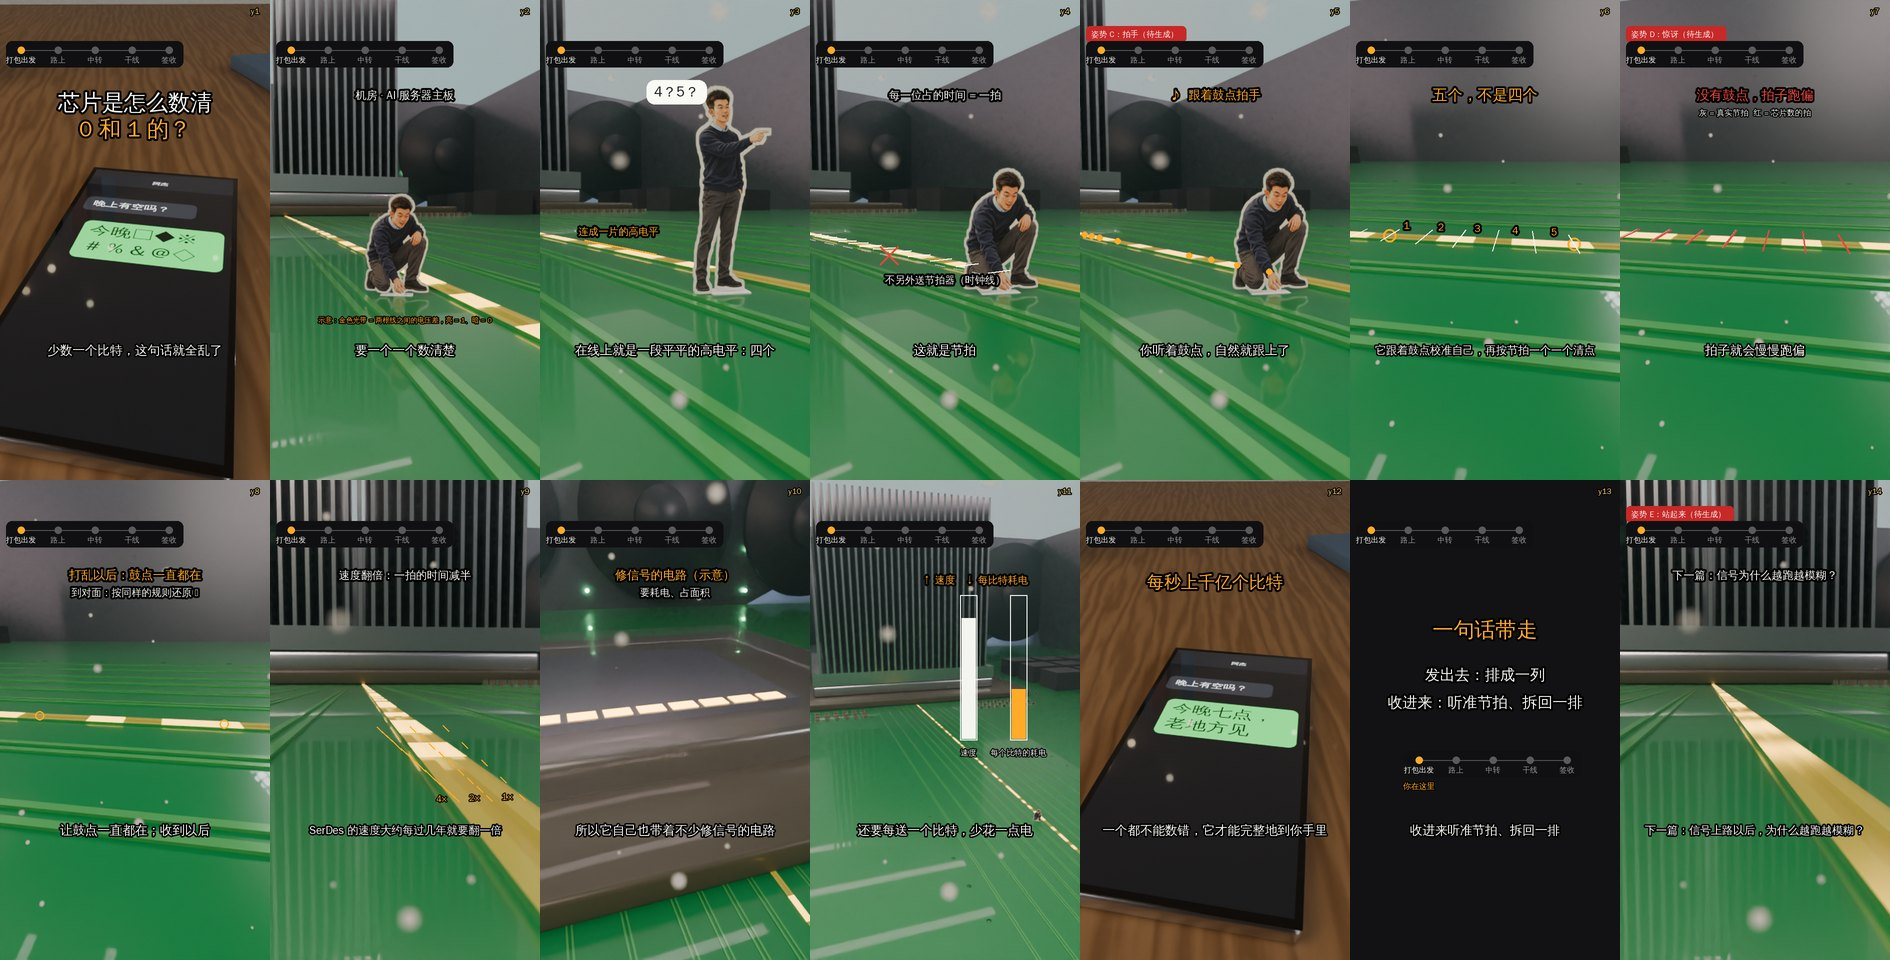
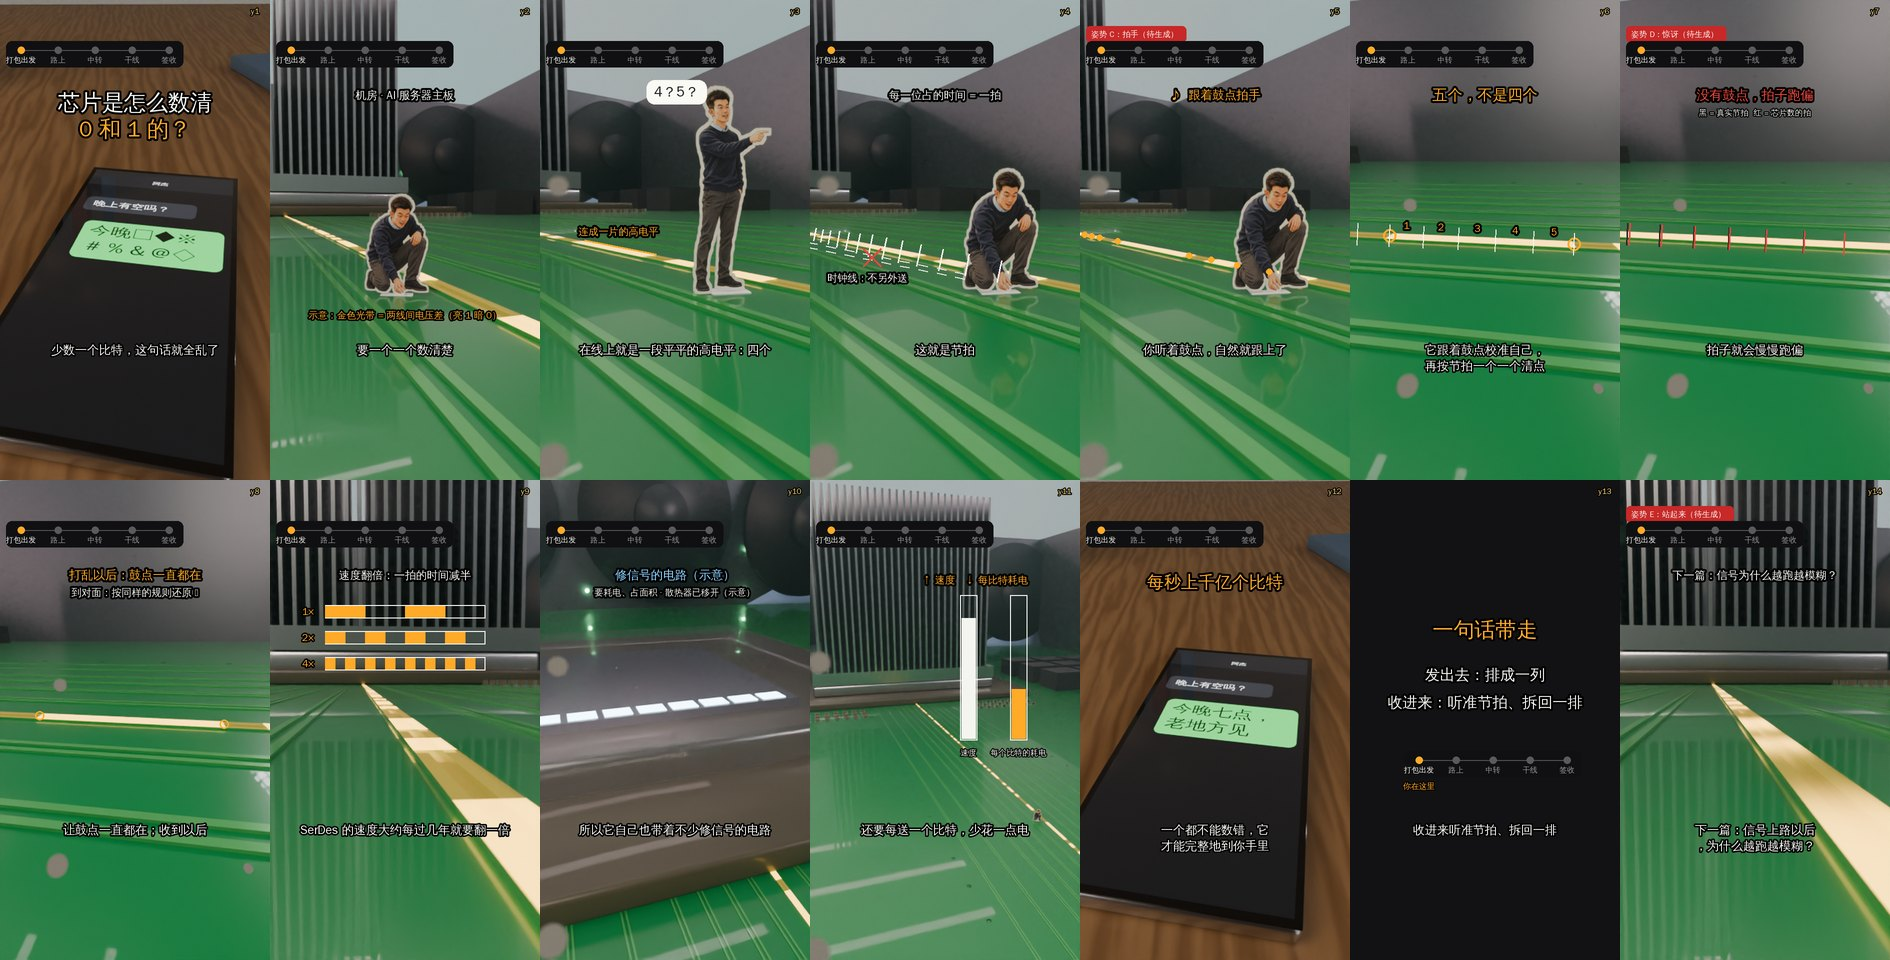
02 下集草稿：按审核复核改（光带贴图改世界坐标、和叠加层的位边界对齐；灰尘每帧 3 颗、不进反射；y4 时钟线；y10 第一段只糊光带；y7 深色刻度；y9 三条格子带；字幕折行；刻度垂直于光带；转场表和姿势 E 统一）
Claude-Session: https://claude.ai/code/session_017cWy2AeTL5LJcSvHYkiP7A

diff --git a/episodes/guanghulian/02-serdes/下集_新风格/草稿/beats.py b/episodes/guanghulian/02-serdes/下集_新风格/草稿/beats.py
@@ -37,7 +37,9 @@ def ticks(d, band, col=WHITE, every=1, scale=1.0, shift=None, width=3):
         if i % every: continue
         q = pts[min(i + 1, len(pts) - 1)] if i + 1 < len(pts) else pts[max(i - 1, 0)]
         sp = ((q['x'] - p['x']) ** 2 + (q['yy'] - p['yy']) ** 2) ** 0.5   # 相邻两位在画面上的距离：越远越短（跟着透视）
-        nx, ny = norm(p); L = max(3, min(22, sp * 0.9)) * scale
+        tx, ty = (q['x'] - p['x']), (q['yy'] - p['yy']); tl = max(1e-6, (tx * tx + ty * ty) ** 0.5)
+        nx, ny = -ty / tl, tx / tl                                       # 垂直于光带在画面上的走向（审核：刻度要垂直于光带）
+        L = max(3, min(22, sp * 0.9)) * scale
         x, y = p['x'], p['yy']
         if shift: x, y = x + shift(i)[0], y + shift(i)[1]
         d.line([(x - nx * L, y - ny * L), (x + nx * L, y + ny * L)], fill=col, width=width)
@@ -51,21 +53,23 @@ def runs(band, n=5):
         if pts[i]['bit'] == 1 and j - i + 1 == n: out.append(pts[i:j + 2] if j + 1 < len(pts) else pts[i:j + 1])
         i = j + 1
     return out
-def subtitle_frames(k, im, draw):
-    """一句拆成原稿的字幕分段，每段一帧（一次一行，y ≈ 1400/1920）"""
+def subtitle_frames(k, im, draw, bgs=None):
+    """一句拆成原稿的字幕分段，每段一帧（一次一段，y ≈ 1400/1920；放不下就折两行，不越过 0.84W）；bgs：每段单独的背景"""
     outs = []
-    for seg in SC[k]['sub']:
-        fr = im.copy(); d = ImageDraw.Draw(fr); draw(d); route(d)
-        text(d, (W // 2, int(H * 0.73)), seg, 25 if len(seg) <= 18 else 22, stroke=3); text(d, (W - 30, 22), k, 16, fill=(255, 220, 120), stroke=2)
-        outs.append((seg, fr))
+    for n, seg in enumerate(SC[k]['sub']):
+        fr = (bgs[n] if bgs else im).copy(); d = ImageDraw.Draw(fr); draw(d) if not callable(getattr(draw, 'per', None)) else draw.per(d, n)
+        if k != 'y13': route(d)
+        lines = [seg] if d.textlength(seg, font=f(24)) <= W * 0.78 else [seg[:(len(seg) + 1) // 2], seg[(len(seg) + 1) // 2:]]
+        for i, ln in enumerate(lines): text(d, (W // 2, int(H * 0.73) + i * 32), ln, 24, stroke=3)
+        text(d, (W - 30, 22), k, 16, fill=(255, 220, 120), stroke=2); outs.append((seg, fr))
     return outs
 BEATS = []
-def beat(k, im, draw): BEATS.append((k, subtitle_frames(k, im, draw)))
+def beat(k, im, draw, bgs=None): BEATS.append((k, subtitle_frames(k, im, draw, bgs)))
 
 im, _ = bg('A_f0040')
 beat('y1', im, lambda d: (text(d, (W // 2, 205), '芯片是怎么数清', 44), text(d, (W // 2, 258), '0 和 1 的？', 44, fill=GOLD)))
 im, _ = bg('B_f0110')
-beat('y2', im, lambda d: (text(d, (W // 2, 190), '机房 · AI 服务器主板', 22), text(d, (W // 2, 640), '示意：金色光带 = 两根线之间的电压差，亮 = 1、暗 = 0', 14, fill=GOLD, stroke=2)))
+beat('y2', im, lambda d: (text(d, (W // 2, 190), '机房 · AI 服务器主板', 22), text(d, (W // 2, 630), '示意：金色光带 = 两线间电压差（亮 1 暗 0）', 19, fill=GOLD, stroke=3)))
 im, band3 = bg('B_side_A_normal')
 def y3(d):
     hx, hy = band3['host_head']; hx *= W / band3['W']; hy *= H / band3['H']
@@ -79,14 +83,14 @@ im, band4 = bg('B_side_B_normal')
 def y4(d):
     ticks(d, band4, col=WHITE); pts = [p for p in band4['pts'] if on_screen(p)]
     if pts:                                          # 「时钟线」：走线旁边虚线画一对，被划掉
-        a, b = pts[0], pts[-1]; nx, ny = norm(a); o = 36
+        a, b = pts[0], pts[-1]; nx, ny = norm(a); o = 70
         for t in range(0, 20, 2):
             x0 = a['x'] + (b['x'] - a['x']) * t / 20 + nx * o; y0 = a['yy'] + (b['yy'] - a['yy']) * t / 20 + ny * o
             x1 = a['x'] + (b['x'] - a['x']) * (t + 1) / 20 + nx * o; y1 = a['yy'] + (b['yy'] - a['yy']) * (t + 1) / 20 + ny * o
-            d.line([(x0, y0), (x1, y1)], fill=GREY, width=3)
+            for dd in (-5, 5): d.line([(x0, y0 + dd), (x1, y1 + dd)], fill=(230, 230, 230), width=3)
         mx_, my_ = (a['x'] + b['x']) / 2 + nx * o, (a['yy'] + b['yy']) / 2 + ny * o
         d.line([(mx_ - 18, my_ - 18), (mx_ + 18, my_ + 18)], fill=RED, width=5); d.line([(mx_ - 18, my_ + 18), (mx_ + 18, my_ - 18)], fill=RED, width=5)
-        text(d, (W // 2, 560), '不另外送节拍器（时钟线）', 20)
+        text(d, (mx_ - 10, my_ + 40), '时钟线：不另外送', 20)
     text(d, (W // 2, 190), '每一位占的时间 = 一拍', 22)
 beat('y4', im, y4)
 im, band5 = bg('B_side_B_normal')
@@ -107,9 +111,9 @@ beat('y6', im, y6)
 im, band7 = bg('B_count_B_long')
 def y7(d):
     tag(d, '姿势 D：惊讶（待生成）')
-    ticks(d, band7, col=GREY, width=2)                                       # 真实的节拍
+    ticks(d, band7, col=(40, 40, 40), width=3)                                # 真实的节拍（深色）
     ticks(d, band7, col=RED, width=3, shift=lambda i: (0.35 * i * i ** 0.5, 0.0))     # 没有鼓点校准：拍子越走越偏
-    text(d, (W // 2, 190), '没有鼓点，拍子跑偏', 26, fill=RED); text(d, (W // 2, 225), '灰 = 真实节拍  红 = 芯片数的拍', 16, stroke=2)
+    text(d, (W // 2, 190), '没有鼓点，拍子跑偏', 26, fill=RED); text(d, (W // 2, 225), '黑 = 真实节拍  红 = 芯片数的拍', 16, stroke=2)
 beat('y7', im, y7)
 im, band8 = bg('B_count_B_normal')
 def y8(d):
@@ -119,20 +123,20 @@ beat('y8', im, y8)
 im, band9 = bg('B_close_B_normal')
 def y9(d):
     pts = [p for p in band9['pts'] if on_screen(p)]
-    if len(pts) > 6:                                  # 同一段走线上，每一代一拍的长度减半（1 : 2 : 4）
-        a, b = pts[0], pts[4]
-        for row, (lab, sub) in enumerate((('1×', 1), ('2×', 2), ('4×', 4))):
-            o = -30 + row * 30; nx, ny = norm(a)
-            for t in range(4 * sub + 1):
-                x = a['x'] + (b['x'] - a['x']) * t / (4 * sub) + nx * o * 2.2; y = a['yy'] + (b['yy'] - a['yy']) * t / (4 * sub) + ny * o * 2.2
-                d.line([(x - 6, y - 6), (x + 6, y + 6)], fill=GOLD, width=2)
-            text(d, (a['x'] + nx * o * 2.2 - 30, a['yy'] + ny * o * 2.2), lab, 18, fill=GOLD, stroke=2)
+    for row, (lab, n) in enumerate((('1×', 4), ('2×', 8), ('4×', 16))):   # 同样长的一段线上，一拍的格子依次减半（1 : 2 : 4）
+        y0 = 250 + row * 52; x0, x1 = 110, 430
+        d.rectangle([x0, y0, x1, y0 + 26], outline=WHITE, width=2)
+        for t in range(n):
+            if t % 2 == 0: d.rectangle([x0 + (x1 - x0) * t / n, y0 + 2, x0 + (x1 - x0) * (t + 1) / n, y0 + 24], fill=GOLD)
+        text(d, (x0 - 34, y0 + 13), lab, 20, fill=GOLD, stroke=3)
     text(d, (W // 2, 190), '速度翻倍：一拍的时间减半', 22)
 beat('y9', im, y9)
-im, _ = bg('B_rx_B_normal_xray')
-def y10(d):
-    text(d, (W // 2, 190), '修信号的电路（示意）', 24, fill=GOLD); text(d, (W // 2, 225), '要耗电、占面积', 20)
-beat('y10', im, y10)
+im, _ = bg('B_rx_B_normal_xray'); imb, _ = bg('B_close_B_blur')
+class Y10:
+    def per(self, d, n):
+        if n == 0: text(d, (W // 2, 190), '越快，越糊', 28, fill=GOLD)
+        else: text(d, (W // 2, 190), '修信号的电路（示意）', 24, fill=(140, 210, 255)); text(d, (W // 2, 225), '要耗电、占面积 · 散热器已移开（示意）', 18)
+beat('y10', im, Y10(), bgs=[imb] + [im] * (len(SC['y10']['sub']) - 1))
 im, _ = bg('B_wide_B_normal')
 def y11(d):
     for x0, lab, lvl, col in ((300, '速度', 0.85, WHITE), (400, '每个比特的耗电', 0.35, GOLD)):

diff --git a/episodes/guanghulian/02-serdes/下集_新风格/blender/shot_open.py b/episodes/guanghulian/02-serdes/下集_新风格/blender/shot_open.py
@@ -78,7 +78,7 @@ def mat_signal(tex):
     for n in list(N): N.remove(n)
     o = N.new('ShaderNodeOutputMaterial'); e = N.new('ShaderNodeEmission'); e.inputs['Color'].default_value = (*GOLD, 1)
     tr = N.new('ShaderNodeBsdfTransparent'); mx = N.new('ShaderNodeMixShader')
-    tc = N.new('ShaderNodeTexCoord'); sp = N.new('ShaderNodeSeparateXYZ'); L.new(tc.outputs['Object'], sp.inputs[0])
+    geo = N.new('ShaderNodeNewGeometry'); sp = N.new('ShaderNodeSeparateXYZ'); L.new(geo.outputs['Position'], sp.inputs[0])   # 世界坐标（审核：和导出的位边界对齐）
     off = N.new('ShaderNodeValue'); off.name = 'offset'
     u = N.new('ShaderNodeMath'); u.operation = 'MULTIPLY_ADD'; u.inputs[1].default_value = 1 / (NB * BIT); L.new(sp.outputs['Y'], u.inputs[0]); L.new(off.outputs[0], u.inputs[2])
     cm = N.new('ShaderNodeCombineXYZ'); L.new(u.outputs[0], cm.inputs['X']); cm.inputs['Y'].default_value = 0.5
@@ -137,16 +137,18 @@ def standee(k, height, loc, yaw):
 def bokeh_lights(n, center, spread, size, cols, strength=(4, 12)):
     for i in range(n):
         c = random.choice(cols); m, _ = emit(f'bk{i}', c, random.uniform(*strength))
-        sphere(f'bk{i}', size * random.uniform(0.6, 1.4), m, (center[0] + random.uniform(-spread[0], spread[0]), center[1] + random.uniform(-spread[1], spread[1]), center[2] + random.uniform(-spread[2], spread[2])))
+        o_ = sphere(f'bk{i}', size * random.uniform(0.6, 1.4), m, (center[0] + random.uniform(-spread[0], spread[0]), center[1] + random.uniform(-spread[1], spread[1]), center[2] + random.uniform(-spread[2], spread[2])))
+        o_.visible_glossy = False          # 背景灯只当虚化背景，不在手机玻璃上反光（审核：白点压字）
 def key(o, path, fr, val):
     setattr(o, path, val); o.keyframe_insert(path, frame=fr)
 def dust_near_camera(n, dmin, dmax, size):
     """前景灰尘：离镜头很近、虚成光斑，慢慢漂（审核：前景灰尘是必要的；数量少、很虚）"""
-    dm, _ = emit('dust', (1.0, 0.9, 0.75), 0.3)
+    dm, _ = emit('dust', (1.0, 0.9, 0.75), 0.12)  # 灰尘不进反射
+    _dust_objs = []
     cam_mat = cam.matrix_world.copy()
     for i in range(n):
-        d = random.uniform(dmin, dmax); x = random.uniform(-0.55, 0.55) * d; y = random.uniform(-0.9, 0.9) * d
-        p = cam_mat @ Vector((x, y, -d)); s = sphere(f'dust{i}', size * random.uniform(0.5, 1.3), dm, p)
+        d = random.uniform(dmin, dmax); x = random.choice([-1, 1]) * random.uniform(0.30, 0.5) * d; y = random.uniform(-0.85, 0.85) * d
+        p = cam_mat @ Vector((x, y, -d)); s = sphere(f'dust{i}', size * random.uniform(0.5, 1.3), dm, p); s.visible_glossy = False
         drift = Vector((random.uniform(-1, 1), random.uniform(-1, 1), random.uniform(-0.5, 1))) * d * 0.04
         key(s, 'location', 1, p); key(s, 'location', NF, p + drift); lin(s)
 
@@ -210,7 +212,7 @@ else:
     box('lid', 46, 46, 2.6, lid_m, (0, 92, 2.9), bev=0.6)
     if XR:      # y10：顶盖半透明，露出裸片和靠走线那一边的收发电路（示意）
         box('die', 26, 26, 0.8, mat('die', (0.12, 0.13, 0.16), 0.3, 0.3), (0, 92, 2.0))
-        sd_m, _ = emit('serdes_blocks', GOLD, 4.0)
+        sd_m, _ = emit('serdes_blocks', (0.55, 0.85, 1.0), 4.0)
         boxes('serdes', [(-10.5 + k * 3.0, 80.2, 2.45, 2.4, 1.6, 0.06) for k in range(8)], sd_m)
     else:
         box('hs_base', 46, 46, 3.0, mat('fin', (0.8, 0.8, 0.82), 1.0, 0.28), (0, 92, 5.7))
@@ -261,8 +263,8 @@ if SHOT == 'B' and 'view' in OPT:
     nt = bpy.data.materials['signal_band'].node_tree; nt.animation_data_clear(); nt.nodes['offset'].outputs[0].default_value = float(OPT.get('off', 0)) / NB
     FRAMES = FRAMES or [60]
 bpy.context.view_layer.update()
-if SHOT == 'B': dust_near_camera(14, 0.25, 1.4, 0.006) if 'view' in OPT else None
-else: dust_near_camera(14, 15, 60, 0.35)
+if SHOT == 'B': dust_near_camera(3, 0.3, 0.9, 0.02) if 'view' in OPT else None
+else: dust_near_camera(3, 12, 30, 0.9)
 
 # ---------- 世界、渲染、合成（空气透视 + 光的辉光） ----------
 wd = bpy.data.worlds.new('w'); sc.world = wd; wd.use_nodes = True; N = wd.node_tree.nodes; L = wd.node_tree.links

diff --git a/episodes/guanghulian/02-serdes/下集_新风格/内容关卡1_脚本与分镜.md b/episodes/guanghulian/02-serdes/下集_新风格/内容关卡1_脚本与分镜.md
@@ -27,9 +27,9 @@
 | y9 | 难的是，SerDes 的速度大约每过几年就要翻一倍。 | 信号越跑越快，三级台阶 | 2.5D |
 | y10 | 越快，信号在路上越容易糊，节拍越难听准；所以它自己也带着不少修信号的电路，这些都要耗电、占面积。 | 信号边缘变糊；芯片里修信号的电路亮起，耗电条往上走 | 2.5D |
 | y11 | 每一代都在拼同一件事：跑得更快，还要每送一个比特，少花一点电。 | 耗电条往回压 | 2.5D |
-| y12 | 回到开头那句话：每秒上千亿个比特，一个都不能数错，它才能完整地到你手里。 | **回到开头那部手机**：镜头顺着信号从服务器飞回手机（开头镜头倒放），乱码一格格还原成「今晚七点，老地方见」；主持人站起来（姿势 E） | 3D（开头镜头倒放） |
+| y12 | 回到开头那句话：每秒上千亿个比特，一个都不能数错，它才能完整地到你手里。 | **回到开头那部手机**：镜头顺着信号从服务器飞回手机（开头镜头倒放），乱码一格格还原成「今晚七点，老地方见」（这一拍不放主持人：桌面尺度下约 2 毫米的人看不见） | 3D（开头镜头倒放） |
 | y13 | 一句话带走：发出去排成一列，收进来听准节拍、拆回一排。 | 大字「一句话带走」+ 小路线图「你在这里：打包出发」 | 2D |
-| y14 | 下一篇：信号上路以后，为什么越跑越模糊？ | 走线上的信号开始变糊（引出 03） | 2.5D |
+| y14 | 下一篇：信号上路以后，为什么越跑越模糊？ | 回到板上：走线上的信号开始变糊（引出 03）；主持人站起来看（姿势 E） | 2.5D |
 
 ## 转场（审核 11-10 第 11 条：每次换镜头都写明带什么过去，不靠淡入淡出）
 | 位置 | 机位 | 怎么接 |
@@ -41,7 +41,7 @@
 | y9 → y10 | close → 收货端（顶盖半透明） | 相机顺着光带一路飞到芯片封装边上，顶盖变成半透明露出收发电路（这是「透视」示意，画面加注「示意」） |
 | y10 → y11 | 收货端 → 拉开看整块板 | 相机升起拉远，光带一直在画面里 |
 | y11 → y12 | 整块板 → 手机 | 开头那一镜倒放：信号从板子飞出去、回到手机，消息一格格还原 |
-| y12 → y13 | 手机 → 「一句话带走」卡片 | 绿色消息气泡放大铺满画面，变成卡片的底 |
+| y12 → y13 | 手机 → 「一句话带走」卡片 | 镜头推进手机屏幕，屏幕的深色底铺满画面，变成卡片的底 |
 | y13 → y14 | 卡片 → 板子 | 卡片上的五站线移开，下面就是那条走线（同位置、同方向），信号开始变糊 |
 
 ## 成本
